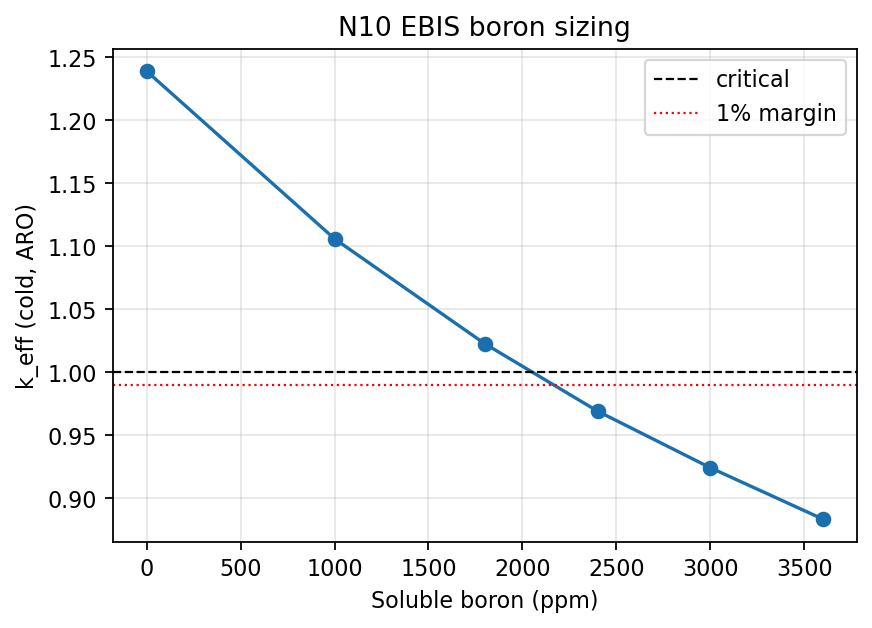
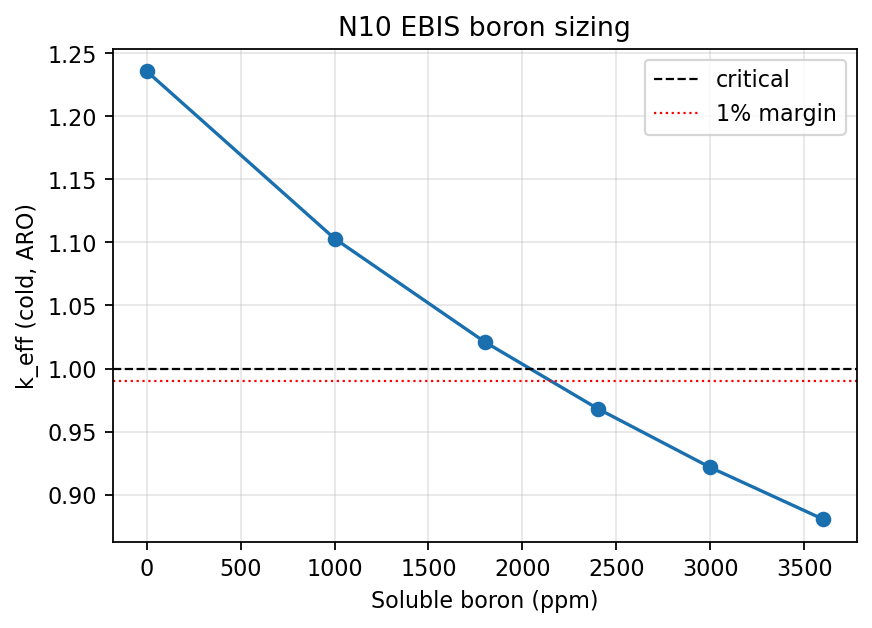
Safety §8.5-8.6: update Er 0.5 -> 0.75 wt% (Laziz)
Re-ran the 6 Er-affected safety cases (N5/N5B/N5C/N10/N12/N12B) at Er=0.75;
margins ~2 pcm deeper, no grade changes (hot trip 16-CRA k_adj 0.933, EBIS 0.928,
SFP 0.892 unchanged/Er-independent, MSLB+EBIS 0.843). 16 CRAs still required.
Shielding not re-run (power-normalized source, unaffected). README + results JSON
+ plots updated to Er=0.75.

diff --git a/scripts/_patch_er075.py b/scripts/_patch_er075.py
@@ -1,0 +1,25 @@
+"""Laziz decision: Er 0.5 -> 0.75 wt%. Patch the locked FER notebook config
+(both the D: working copy and the ~/ref_neutronics.ipynb the safety generator reads)."""
+import json, shutil, datetime
+
+NB  = "/mnt/d/conda-envs/openmc-py311/SMRs/Shielding/aegis40_neutronics_FER.ipynb"
+REF = "/home/samira/ref_neutronics.ipynb"
+OLD, NEW = "ER_WT_PCT = 0.5", "ER_WT_PCT = 0.75"
+
+stamp = datetime.datetime.now().strftime("%Y%m%d_%H%M%S")
+shutil.copy(NB, NB + f".bak_er_{stamp}")
+nb = json.loads(open(NB, "rb").read().decode("utf-8-sig", "replace"))
+hits = 0
+for c in nb["cells"]:
+    if c["cell_type"] != "code":
+        continue
+    s = "".join(c["source"])
+    if OLD in s and "DESIGN" in s:               # the hybrid-branch config cell
+        c["source"] = s.replace(OLD, NEW).splitlines(keepends=True)
+        hits += 1
+if hits == 0:
+    raise SystemExit("ER_WT_PCT = 0.5 not found in config cell — aborted")
+out = json.dumps(nb, ensure_ascii=False, indent=1)
+open(NB, "w", encoding="utf-8").write(out)
+open(REF, "w", encoding="utf-8").write(out)
+print(f"patched ER_WT_PCT 0.5 -> 0.75 in {hits} cell(s); wrote NB + REF (backup .bak_er_{stamp})")

diff --git a/openmc_model/safety_85_86/aegis40_safety_neutronics.py b/openmc_model/safety_85_86/aegis40_safety_neutronics.py
@@ -121,7 +121,7 @@ GD_RING_WEIGHTS  = {0: 1.65, 1: 1.45, 2: 0.95, 3: 0.68}   # rings 1/8/16/12; cor
 AXIAL_BLANKET_CM     = 0.0  # optional reduced-enrichment axial blanket (0 = off)
 AXIAL_BLANKET_ENRICH = 2.5
 if DESIGN == "hybrid":
-    ER_WT_PCT = 0.5        # light Er hold-down through mid/late cycle + cold SDM
+    ER_WT_PCT = 0.75        # light Er hold-down through mid/late cycle + cold SDM
     N_ER_RODS = 16
 else:
     ER_WT_PCT = 0.0
@@ -153,7 +153,7 @@ N_BATCHES      = 4
 STAT_FAST   = dict(batches=80,  inactive=25, particles=5000)
 STAT_MEDIUM = dict(batches=180, inactive=50, particles=20000)
 STAT_FINAL  = dict(batches=400, inactive=80, particles=50000)
-STAT = STAT_FINAL
+STAT = STAT_MEDIUM
 
 _enr_avg = (ENRICH_INNER + 2*ENRICH_MID + ENRICH_OUTER) / 4.0
 print(f"Core: {N_FA_TOTAL} FA (7-wide octagon) | {N_CR_CLUSTERS} control-rod clusters")

diff --git a/openmc_model/safety_85_86/README.md b/openmc_model/safety_85_86/README.md
@@ -4,7 +4,9 @@ Standalone OpenMC criticality study for the safety-neutronics simulations identi
 in `docs/competition/SIMULATION_ANALYSIS_PLAN.md` (N10/N11/N12), plus the control-rod
 shutdown analyses (N5/N5B) and the EBIS-credited MSLB case (N12-B) that close the
 shutdown safety story. Geometry/materials reuse the **locked design** verbatim
-(Approach B, Gd 20 @ 6 wt% + Er 16 @ 0.5 wt%) from `aegis40_neutronics_FER.ipynb`.
+(Approach B, Gd 20 @ 6 wt% + **Er 16 @ 0.75 wt%**) from `aegis40_neutronics_FER.ipynb`.
+*(Er set to 0.75 wt% — Laziz, 2026-06-27; vs the prior 0.50 wt% every margin moved ~2 pcm
+deeper, no grade changes. Numbers below are the Er=0.75 values.)*
 
 ## Acceptance convention — judge by adjusted k, not the raw mean
 All criticality claims use the **conservative adjusted multiplication factor**:
@@ -19,14 +21,14 @@ preferred / ≤ 0.98 acceptable; rod hot-trip **k_adj ≤ 0.99** with SDM.
 
 | Case | What it proves | k_mean | **k_adj** | Verdict |
 |---|---|---|---|---|
-| **N5** hot trip — natural B₄C, 12 CRAs | RPS rods alone at BOC | 1.0053 | **1.010** | ❌ **diagnostic** — rods alone insufficient |
-| **N5B** hot trip — 90% B-10 B₄C, 12 CRAs | enriched solid rods | 0.9832 | **0.989** | ✅ subcritical (thin ~1% margin) |
-| **N5C** hot trip — 90% B-10, **16 CRAs** (+4) | enriched rods + extra CRAs | 0.9292 | **0.935** | ✅ **Great** (matches NuScale 16-CRA) |
-| **N10** EBIS standalone, 3000 ppm | diverse cold shutdown | 0.9241 | **0.930** | ✅ **Great** |
-| **N11** SFP, Boral, unborated | defence-in-depth bound | 1.0789 | 1.085 | conservative bound (fresh∞) |
+| **N5** hot trip — natural B₄C, 12 CRAs | RPS rods alone at BOC | 1.0026 | **1.008** | ❌ **diagnostic** — rods alone insufficient |
+| **N5B** hot trip — 90% B-10 B₄C, 12 CRAs | enriched solid rods | 0.9803 | **0.987** | ✅ subcritical (thin ~1% margin) |
+| **N5C** hot trip — 90% B-10, **16 CRAs** (+4) | enriched rods + extra CRAs | 0.9273 | **0.933** | ✅ **Great** (matches NuScale 16-CRA) |
+| **N10** EBIS standalone, 3000 ppm | diverse cold shutdown | 0.9217 | **0.928** | ✅ **Great** |
+| **N11** SFP, Boral, unborated | defence-in-depth bound | 1.0789 | 1.085 | conservative bound (fresh∞, Er-independent) |
 | **N11** SFP, Boral + 2000 ppm | credited storage | 0.8854 | **0.892** | ✅ **Great** (50.68(b)) |
-| **N12-A** MSLB rods-alone, cold/stuck | diagnostic limiting case | 1.1185 | **1.125** | ❌ **diagnostic** — establishes EBIS need |
-| **N12-B** MSLB + EBIS 3000 ppm, cold/stuck | credited MSLB termination | 0.8387 | **0.845** | ✅ **Great** |
+| **N12-A** MSLB rods-alone, cold/stuck | diagnostic limiting case | 1.1142 | **1.120** | ❌ **diagnostic** — establishes EBIS need |
+| **N12-B** MSLB + EBIS 3000 ppm, cold/stuck | credited MSLB termination | 0.8369 | **0.843** | ✅ **Great** |
 
 **Bottom line:** every *credited* safety function clears its target with margin. The two
 red rows are **deliberate diagnostic limiting cases**, retained to *establish the design
